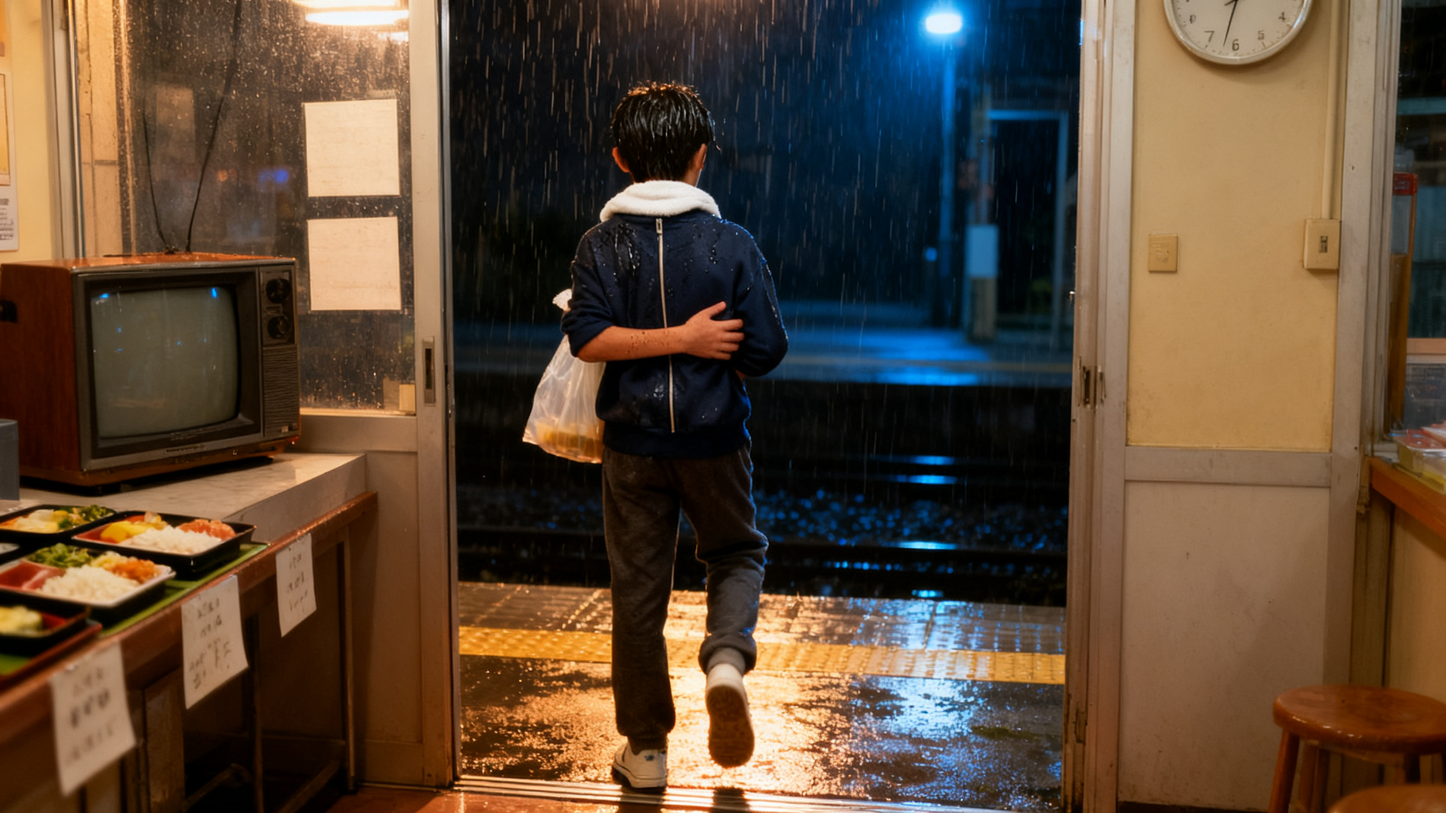
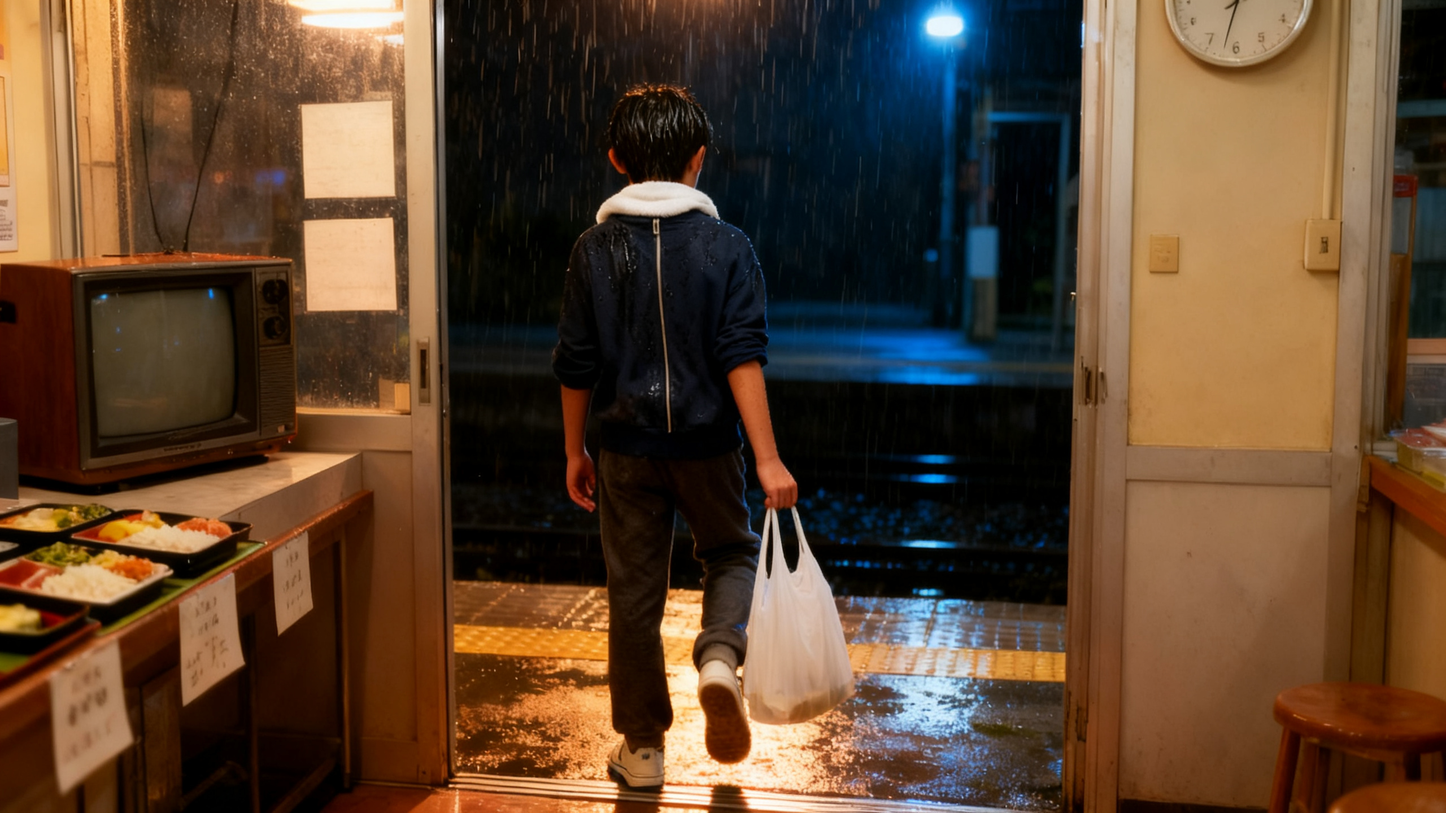
bento: r18b S04j 합격 반영
Claude-Session: https://claude.ai/code/session_018wAFaWMhFYBvBXAjysko2Q

diff --git a/productions/bento-ja/kf_pick.py b/productions/bento-ja/kf_pick.py
@@ -34,7 +34,7 @@ PICK = {  # 컷: 원본 파일
     "S03be": P + "bento-kf-r14/S03be-1.png", "S03bf": P + "bento-kf-r14/S03bf-1.png", "S03bg": P + "bento-kf-r14/S03bg-1.png", "S08b": P + "bento-kf-r14/S08b-1.png", "S08n": P + "bento-kf-r14/S08n-1.png", "S09e": P + "bento-kf-r14/S09e-1.png", "S09g": P + "bento-kf-r14/S09g-1.png", "S09i": P + "bento-kf-r14/S09i-1.png", "S09p": P + "bento-kf-r14/S09p-1.png", "S12g": P + "bento-kf-r14/S12g-1.png", "S12r": P + "bento-kf-r14/S12r-1.png", "S13d": P + "bento-kf-r14/S13d-1.png", "S13j": P + "bento-kf-r14/S13j-1c.png", "S13n": P + "bento-kf-r14/S13n-1.png", "S13u": P + "bento-kf-r14/S13u-1.png", "S14e": P + "bento-kf-r14/S14e-1.png",  # r14 뺨 젤 눈물 줄기 제거(S13j 배경 인물 흐림)
     "S13r": P + "bento-kf-r15/S13r-2.png",  # r15 마주 보는 대화
     "S05b": P + "bento-kf-r16/S05b-1.png", "S05c": P + "bento-kf-r16/S05c-2c.png",  # r16 지갑을 손바닥에(S05c 귀걸이 인페인트)
-    "S04j": P + "bento-kf-r17/S04j-1.png",  # r17 빗속으로 나가는 뒷모습
+    "S04j": P + "bento-kf-r18b/S04j-2.png",  # r18b 한 손으로 봉투를 들고 빗속으로
     "S05e": P + "bento-kf-r5/S05e-1.png", "S09p": P + "bento-kf-r5/S09p-1.png", "S13t": P + "bento-kf-r5/S13t-1.png",
 }
 PENDING = set()
